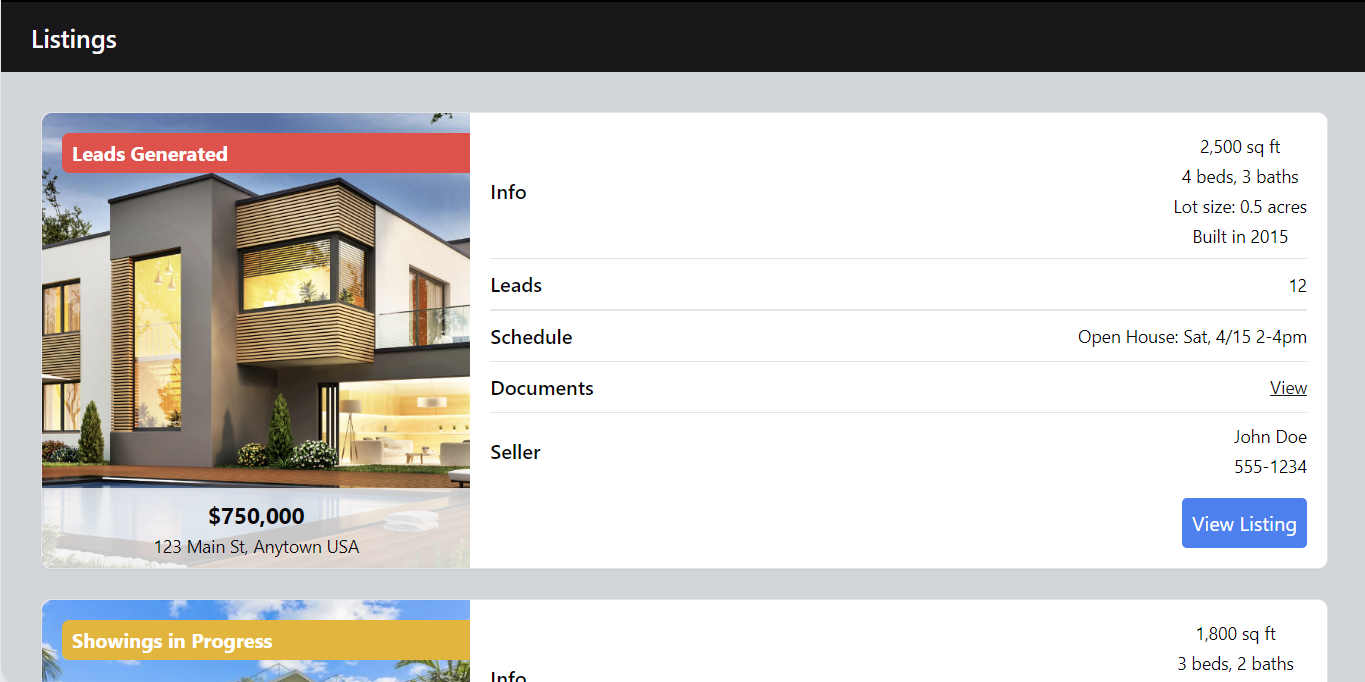
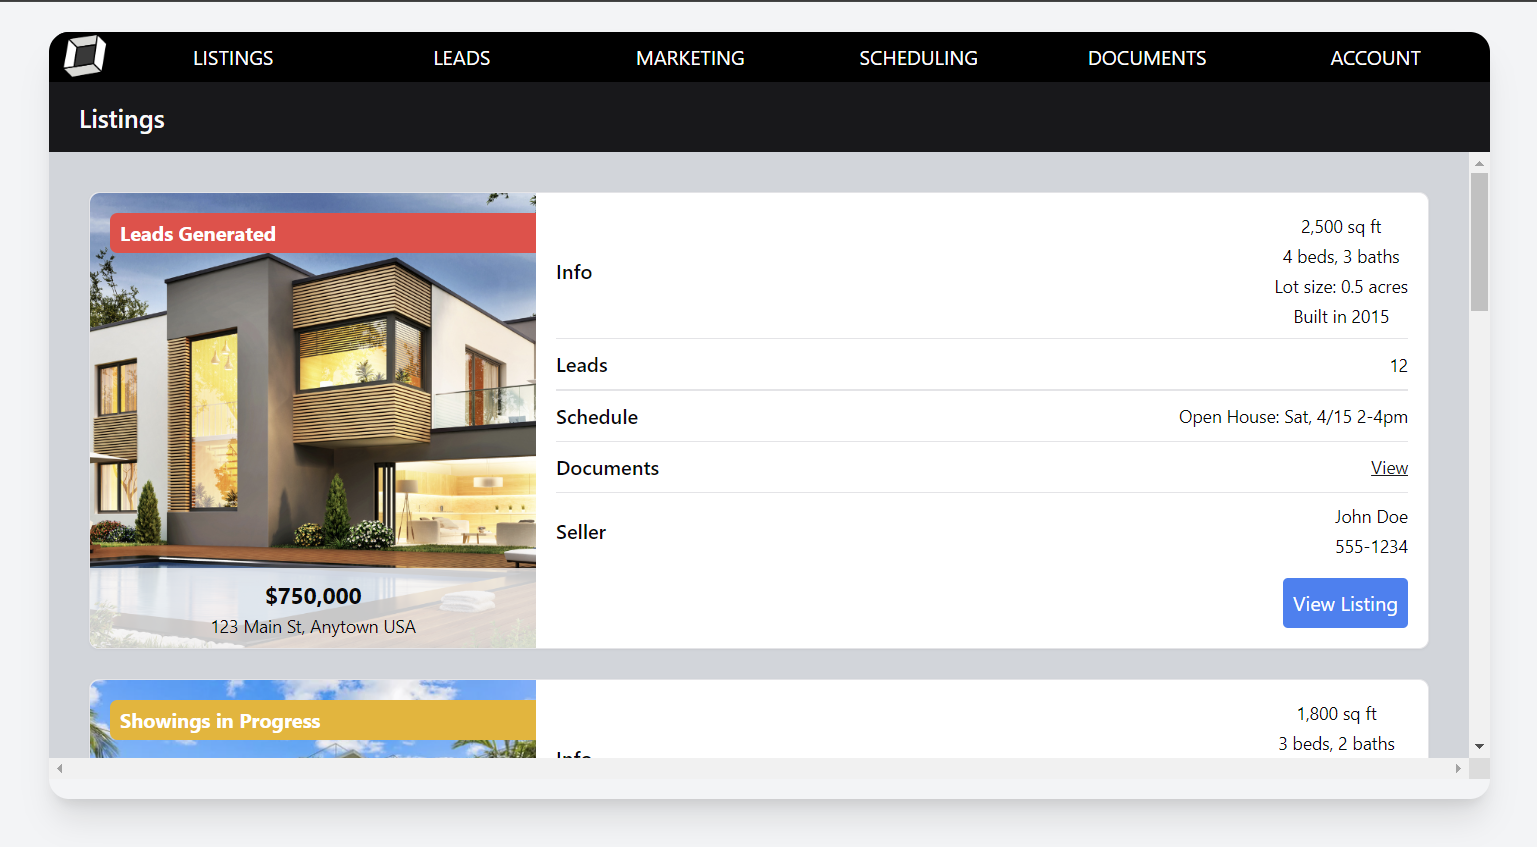
More Picture Changes and Minor Tweaks

diff --git a/components/pricingPage/index.tsx b/components/pricingPage/index.tsx
@@ -1,0 +1,80 @@
+import React from 'react';
+import NavBar from '../navBar';
+import Footer from '../footer';
+
+const PricingPage = () => {
+  return (
+    <div className="flex flex-col flex-1 h-[100vh]">
+        <NavBar/>
+        <div className="bg-primary flex-1">
+            <div className="bg-gray-50 py-20 px-6 sm:py-24 lg:px-8">
+            <div className="max-w-7xl mx-auto text-center">
+                <h1 className="text-4xl font-extrabold text-gray-900 sm:text-5xl lg:text-6xl">
+                Simple, Transparent Pricing
+                </h1>
+                <p className="mt-4 text-xl text-gray-500">
+                Choose the plan that fits your business needs. No hidden fees, no surprises.
+                </p>
+                <div className="mt-16 mx-[15vw] grid gap-8 lg:grid-cols-2 lg:gap-x-8">
+                <div className="relative bg-white py-8 px-6 border border-gray-200 rounded-lg shadow-sm">
+                    <h2 className="text-lg leading-6 font-medium text-gray-900">Individual</h2>
+                    <p className="mt-4 text-sm text-gray-500">Perfect for small teams or individual agents.</p>
+                    <p className="mt-8 text-4xl font-extrabold text-gray-900">$19</p>
+                    <p className="mt-2 text-base text-gray-500">per month</p>
+                    <ul className="mt-8 space-y-4">
+                    <li className="flex items-center text-sm text-gray-700">
+                        <svg className="flex-shrink-0 mr-1.5 h-5 w-5 text-green-500" xmlns="http://www.w3.org/2000/svg" viewBox="0 0 20 20" fill="currentColor">
+                        <path fillRule="evenodd" d="M16.707 5.293a1 1 0 010 1.414L8 15.414 4.293 11.707a1 1 0 111.414-1.414L8 12.586l7.293-7.293a1 1 0 011.414 0z" clipRule="evenodd" />
+                        </svg>
+                        Email Integration
+                    </li>
+                    <li className="flex items-center text-sm text-gray-700">
+                        <svg className="flex-shrink-0 mr-1.5 h-5 w-5 text-green-500" xmlns="http://www.w3.org/2000/svg" viewBox="0 0 20 20" fill="currentColor">
+                        <path fillRule="evenodd" d="M16.707 5.293a1 1 0 010 1.414L8 15.414 4.293 11.707a1 1 0 111.414-1.414L8 12.586l7.293-7.293a1 1 0 011.414 0z" clipRule="evenodd" />
+                        </svg>
+                        Google Ads Support
+                    </li>
+                    </ul>
+                </div>
+                <div className="relative bg-white py-8 px-6 border border-gray-200 rounded-lg shadow-sm">
+                    <h2 className="text-lg leading-6 font-medium text-gray-900">Enterprise</h2>
+                    <p className="mt-4 text-sm text-gray-500">Best for large teams or agencies.</p>
+                    <p className="mt-8 text-4xl font-extrabold text-gray-900">$99</p>
+                    <p className="mt-2 text-base text-gray-500">per month</p>
+                    <ul className="mt-8 space-y-4">
+                    <li className="flex items-center text-sm text-gray-700">
+                        <svg className="flex-shrink-0 mr-1.5 h-5 w-5 text-green-500" xmlns="http://www.w3.org/2000/svg" viewBox="0 0 20 20" fill="currentColor">
+                        <path fillRule="evenodd" d="M16.707 5.293a1 1 0 010 1.414L8 15.414 4.293 11.707a1 1 0 111.414-1.414L8 12.586l7.293-7.293a1 1 0 011.414 0z" clipRule="evenodd" />
+                        </svg>
+                        Email Integration
+                    </li>
+                    <li className="flex items-center text-sm text-gray-700">
+                        <svg className="flex-shrink-0 mr-1.5 h-5 w-5 text-green-500" xmlns="http://www.w3.org/2000/svg" viewBox="0 0 20 20" fill="currentColor">
+                        <path fillRule="evenodd" d="M16.707 5.293a1 1 0 010 1.414L8 15.414 4.293 11.707a1 1 0 111.414-1.414L8 12.586l7.293-7.293a1 1 0 011.414 0z" clipRule="evenodd" />
+                        </svg>
+                        Google Ads Support
+                    </li>
+                    <li className="flex items-center text-sm text-gray-700">
+                        <svg className="flex-shrink-0 mr-1.5 h-5 w-5 text-green-500" xmlns="http://www.w3.org/2000/svg" viewBox="0 0 20 20" fill="currentColor">
+                        <path fillRule="evenodd" d="M16.707 5.293a1 1 0 010 1.414L8 15.414 4.293 11.707a1 1 0 111.414-1.414L8 12.586l7.293-7.293a1 1 0 011.414 0z" clipRule="evenodd" />
+                        </svg>
+                        SEO Optimization
+                    </li>
+                    <li className="flex items-center text-sm text-gray-700">
+                        <svg className="flex-shrink-0 mr-1.5 h-5 w-5 text-green-500" xmlns="http://www.w3.org/2000/svg" viewBox="0 0 20 20" fill="currentColor">
+                        <path fillRule="evenodd" d="M16.707 5.293a1 1 0 010 1.414L8 15.414 4.293 11.707a1 1 0 111.414-1.414L8 12.586l7.293-7.293a1 1 0 011.414 0z" clipRule="evenodd" />
+                        </svg>
+                        Zillow Integration
+                    </li>
+                    </ul>
+                </div>
+                </div>
+            </div>
+            </div>
+        </div>
+        <Footer/>
+    </div>
+      );
+};
+
+export default PricingPage;

diff --git a/components/component.jsx b/components/component.jsx
@@ -11,12 +11,12 @@ import Footer from './footer';
 import Link from "next/link";
 
 import logo from "../pictures/logo.png";
-import listingImg from "../pictures/listing.jpeg";
-import workflowsImg from "../pictures/workflows.jpeg";
-import emailChainImg from "../pictures/emailChain.jpeg";
-import paperworkImg from "../pictures/paperwork.jpeg";
-import financialImg from "../pictures/financial.jpeg";
-import advertisementImg from "../pictures/advertisement.jpeg";
+import listingImg from '../pictures/listingPage.png';
+import leadsImg from '../pictures/leadsPage.png';
+import marketingImg from '../pictures/marketingPage.png';
+import schedulingImg from '../pictures/schedulingPage.png';
+import documentsImg from '../pictures/documentsPage.png';
+import financialImg from '../pictures/financial.jpeg';
 
 export default function Component() {
   return (
@@ -77,7 +77,7 @@ export default function Component() {
             </div>
             <div className="mx-auto grid max-w-5xl items-center gap-6 py-12 lg:grid-cols-2 lg:gap-12">
               <img
-                src={workflowsImg.src}
+                src={leadsImg.src}
                 width="550"
                 height="310"
                 alt="Automated Workflows"
@@ -113,7 +113,7 @@ export default function Component() {
             </div>
             <div className="mx-auto grid max-w-5xl items-center gap-6 py-12 lg:grid-cols-2 lg:gap-12">
               <img
-                src={emailChainImg.src}
+                src={schedulingImg.src}
                 width="550"
                 height="310"
                 alt="Communication Automation"
@@ -131,7 +131,7 @@ export default function Component() {
             </div>
             <div className="mx-auto grid max-w-5xl items-center gap-6 py-12 lg:grid-cols-2 lg:gap-12">
               <img
-                src={paperworkImg.src}
+                src={documentsImg.src}
                 width="550"
                 height="310"
                 alt="Paperwork Management"
@@ -149,7 +149,7 @@ export default function Component() {
             </div>
             <div className="mx-auto grid max-w-5xl items-center gap-6 py-12 lg:grid-cols-2 lg:gap-12">
               <img
-                src={advertisementImg.src}
+                src={marketingImg.src}
                 width="550"
                 height="310"
                 alt="Ad Campaign Integration"

diff --git a/components/contactForm/index.tsx b/components/contactForm/index.tsx
@@ -32,7 +32,8 @@ export default function ContactForm() {
                 <CardDescription>Fill out the form to request a live demo.</CardDescription>
               </CardHeader>
               <CardContent>
-                <form className="grid gap-4">
+                <form className="grid gap-4" action="https://api.web3forms.com/submit" method="POST">
+                  <input type="hidden" name="access_key" value="access key required!"/>
                   <div className="grid grid-cols-1 sm:grid-cols-2 gap-4">
                     <div className="space-y-2">
                       <Label htmlFor="name">Name</Label>

diff --git a/components/navBar.tsx b/components/navBar.tsx
@@ -24,7 +24,7 @@ export default function NavBar() {
                     Demo
                 </Link>
                 <Link
-                    href="#"
+                    href="/pricing"
                     className="text-sm font-medium hover:underline underline-offset-4 text-[#ccc]"
                     prefetch={false}
                 >

diff --git a/components/contactPage/index.tsx b/components/contactPage/index.tsx
@@ -4,7 +4,7 @@ import Footer from '../footer';
 
 export default function ContactBody() {
     return (
-        <div className="flex flex-col flex-1 h-[100vh] bg-[yellow]">
+        <div className="flex flex-col flex-1 h-[100vh]">
             <NavBar/>
             <div className="bg-primary flex-1">
                 <ContactForm/>

diff --git a/pages/pricing.tsx b/pages/pricing.tsx
@@ -1,0 +1,5 @@
+import PricingBody from '../components/pricingPage';
+
+export default function ContactPage() {
+    return (<PricingBody/>);
+}
